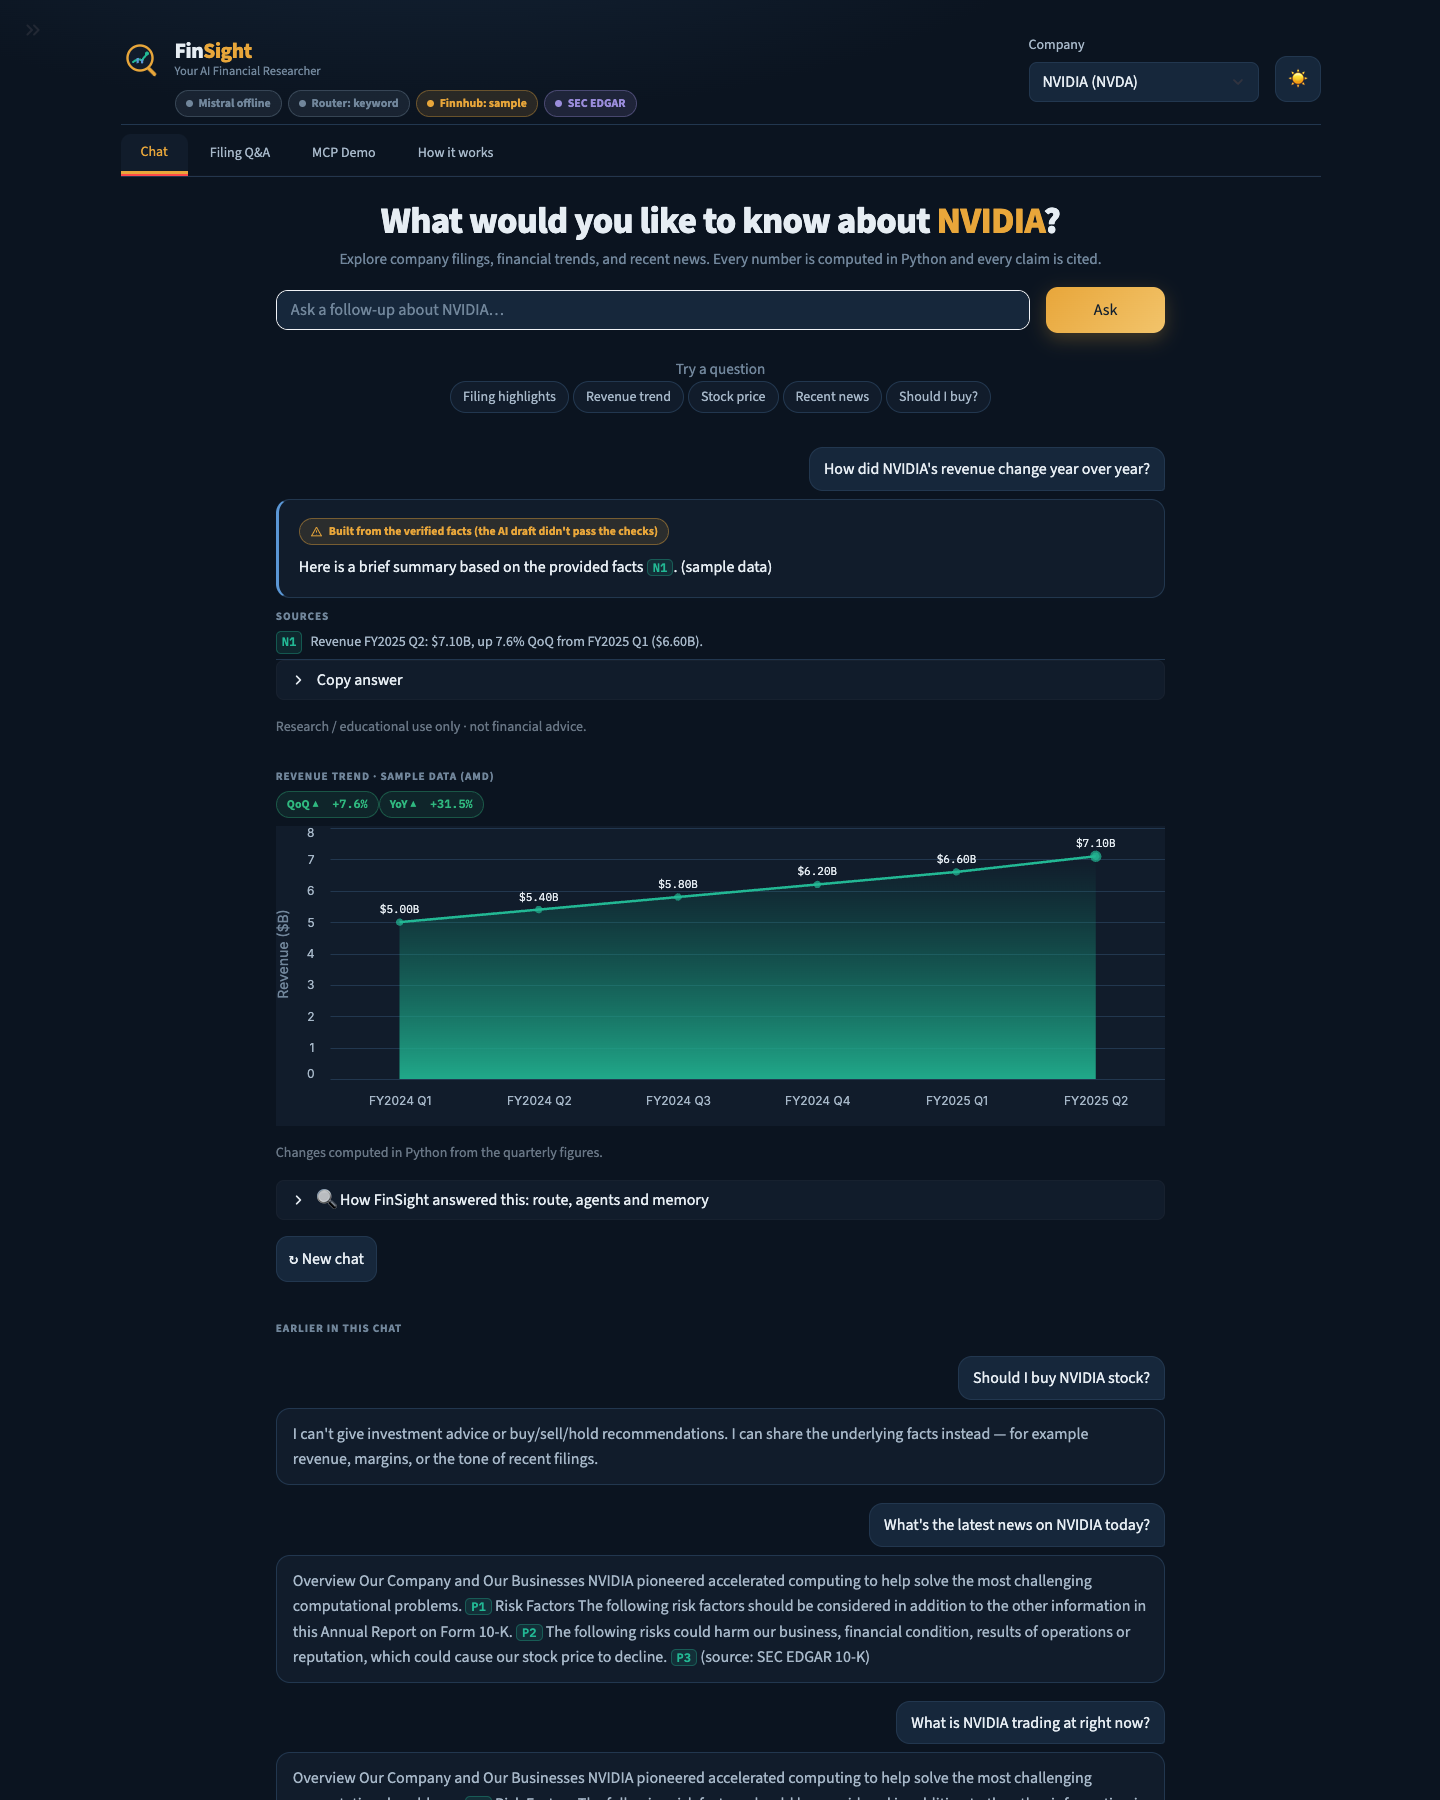
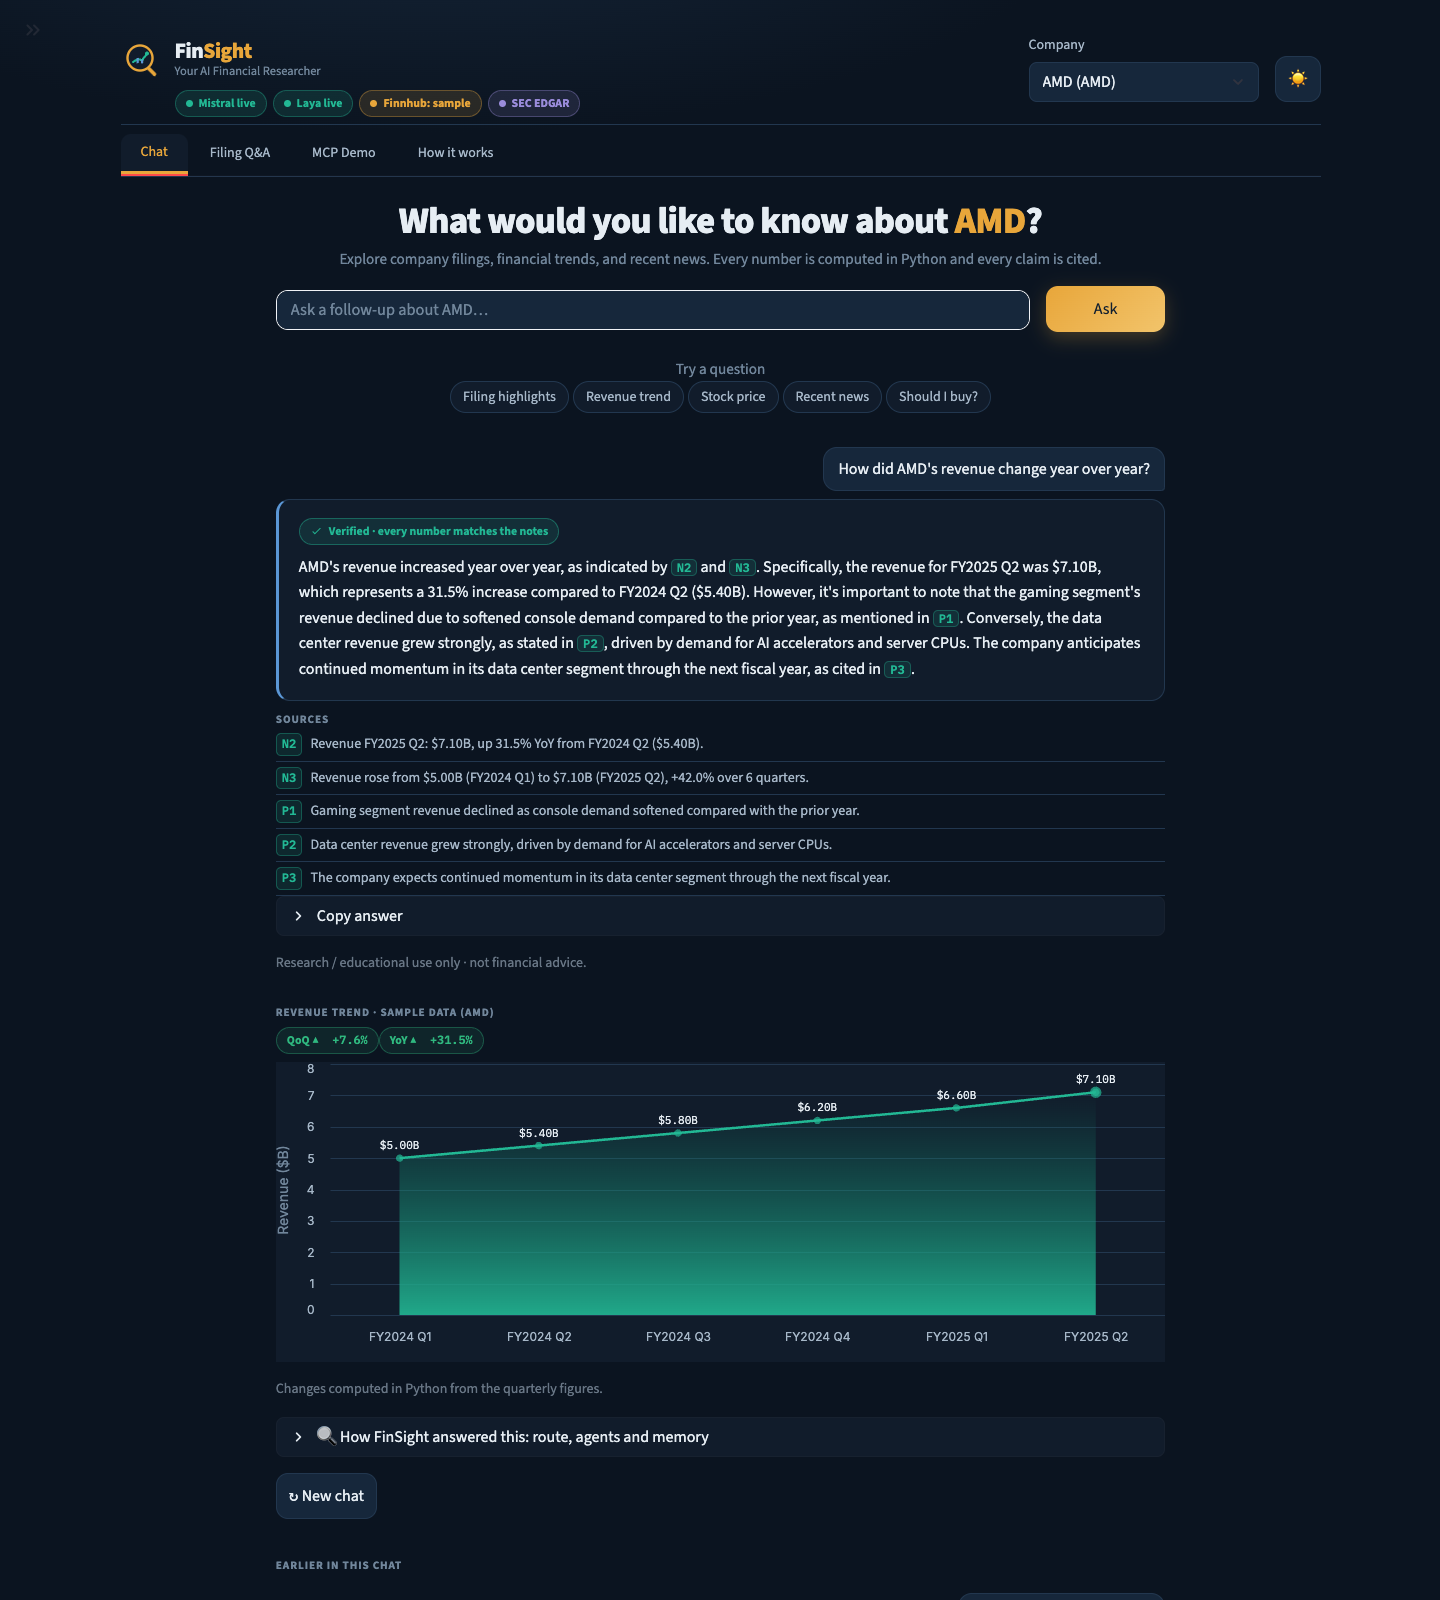
fix: answer citations open the right passage; status chips follow the .env URLs
- Sources numbered passages in memory order, but report_agent gives Mistral its top-3
  picks numbered by relevance, so [P1] could show P3's text. Sources now uses the same
  _select_passages() order. Test fails before, passes after.
- Status chips pinged localhost:8000/8001 only; they now check REMOTE_LLM_URL and
  LAYA_URL (what the agents actually call), cached 20 s so a remote box doesn't slow
  every click.

Changed region(s): [[0.1875, 0.2812, 0.8125, 1.0], [0.0938, 0.0, 0.8125, 0.3125], [0.7188, 0.0, 0.9375, 0.0625]]

diff --git a/ACSESS/finsight/frontend/components/status_chips.py b/ACSESS/finsight/frontend/components/status_chips.py
@@ -6,25 +6,19 @@ an error. Used in the top bar so the demo state is always honest and visible.
 from __future__ import annotations
 
 import os
-import socket
 import urllib.request
+
+import streamlit as st
 
 from frontend.theme import COLORS, chip
 
 
-def _endpoint_live(port: int, path: str, timeout: float = 0.8) -> bool:
-    """True only if the server actually RESPONDS (not just the tunnel socket being open).
-
-    A dead PSC node still accepts the tunnel's TCP connection but resets requests, so a
-    bare socket check reports a false 'live'. We do a quick HTTP GET and require a reply.
-    """
+@st.cache_data(ttl=20, show_spinner=False)  # a remote box adds latency; don't ping on every click
+def _endpoint_live(url: str, timeout: float = 2.0) -> bool:
+    """True only if the server actually RESPONDS with 200 (a dead PSC node behind an open
+    tunnel accepts the TCP connection but resets requests, so a socket check isn't enough)."""
     try:
-        with socket.create_connection(("localhost", port), timeout=0.3):
-            pass
-    except OSError:
-        return False
-    try:
-        with urllib.request.urlopen(f"http://localhost:{port}{path}", timeout=timeout) as r:
+        with urllib.request.urlopen(url, timeout=timeout) as r:
             return r.status == 200
     except Exception:  # noqa: BLE001 — reset / timeout / error => not live
         return False
@@ -36,9 +30,12 @@ def backend_status(use_fake: bool, use_laya: bool) -> dict:
     if use_fake:
         mistral = ("Mistral offline", c["muted"])
     else:
-        mistral = ("Mistral live", c["python"]) if _endpoint_live(8000, "/v1/models") else ("Mistral down", c["error"])
+        # the same URLs the agents call (.env), so a public-IP box shows green too
+        url = os.getenv("REMOTE_LLM_URL", "http://localhost:8000/v1").rstrip("/") + "/models"
+        mistral = ("Mistral live", c["python"]) if _endpoint_live(url) else ("Mistral down", c["error"])
     if use_laya:
-        laya = ("Laya live", c["python"]) if _endpoint_live(8001, "/health") else ("Laya down", c["error"])
+        url = os.getenv("LAYA_URL", "http://localhost:8001").rstrip("/") + "/health"
+        laya = ("Laya live", c["python"]) if _endpoint_live(url) else ("Laya down", c["error"])
     else:
         laya = ("Router: keyword", c["muted"])
     finnhub = ("Finnhub live", c["python"]) if os.getenv("FINNHUB_API_KEY") else ("Finnhub: sample", c["laya"])

diff --git a/ACSESS/finsight/frontend/components/answer.py b/ACSESS/finsight/frontend/components/answer.py
@@ -11,6 +11,7 @@ import re
 
 import streamlit as st
 
+from agent_core.agents.report_agent.agent import _select_passages
 from frontend.components.icons import icon
 from frontend.theme import COLORS
 
@@ -41,14 +42,15 @@ def _inline(answer: str) -> str:
     return "".join(out).replace("\n", "<br>")
 
 
-def _sources(memory, cited_ids: list[str]) -> list[tuple[str, str]]:
+def _sources(memory, cited_ids: list[str], question: str) -> list[tuple[str, str]]:
     """Map cited ids to their note/passage/quote/news/filing text from shared memory."""
     out = {}
     if memory.has("amd_notes"):
         for n in memory.get("amd_notes"):
             out[n["id"]] = n["text"]
     if memory.has("amd_passages"):
-        for i, p in enumerate(memory.get("amd_passages"), 1):
+        # number passages exactly as report_agent did (its top-3 picks), or P1 points at the wrong text
+        for i, p in enumerate(_select_passages(memory.get("amd_passages"), question), 1):
             out.setdefault(f"P{i}", p["text"])
     if memory.has("amd_quote"):
         q = memory.get("amd_quote")
@@ -108,7 +110,7 @@ def render_answer(trace, memory) -> None:
         unsafe_allow_html=True,
     )
 
-    srcs = _sources(memory, cited)
+    srcs = _sources(memory, cited, trace.question)
     if srcs:
         st.markdown('<div class="fs-label" style="margin-top:10px;">Sources</div>', unsafe_allow_html=True)
         for cid, text in srcs:

diff --git a/ACSESS/finsight/agent_core/tests/test_agent_core.py b/ACSESS/finsight/agent_core/tests/test_agent_core.py
@@ -186,3 +186,16 @@ def test_source_tag_names_real_filings_not_sample():
     assert ReportAgent._source_tag(mem) == "(source: SEC EDGAR 10-K)"
     mem.put("amd_passages", [{"text": "t", "source": {"form": "10-Q", "url": "https://sec.gov/sample/amd.htm"}}], "data_agent")
     assert ReportAgent._source_tag(mem) == "(sample data)"
+
+
+def test_ui_sources_number_passages_like_report_agent():
+    """The answer's [P1] must open the same passage the report agent gave Mistral as P1."""
+    from frontend.components.answer import _sources
+    q = "How did gaming revenue change?"
+    mem = SharedMemory()
+    mem.put("amd_passages", [{"text": "Data center revenue grew."}, {"text": "Momentum continues."},
+                             {"text": "Gaming revenue declined as console demand softened."}], "data_agent")
+    facts = dict(ReportAgent()._gather(mem, q)[0])
+    ui = dict(_sources(mem, ["P1", "P2", "P3"], q))
+    assert facts["P1"].startswith("Gaming")  # picked first: most overlap with the question
+    assert ui == {k: v for k, v in facts.items() if k.startswith("P")}
